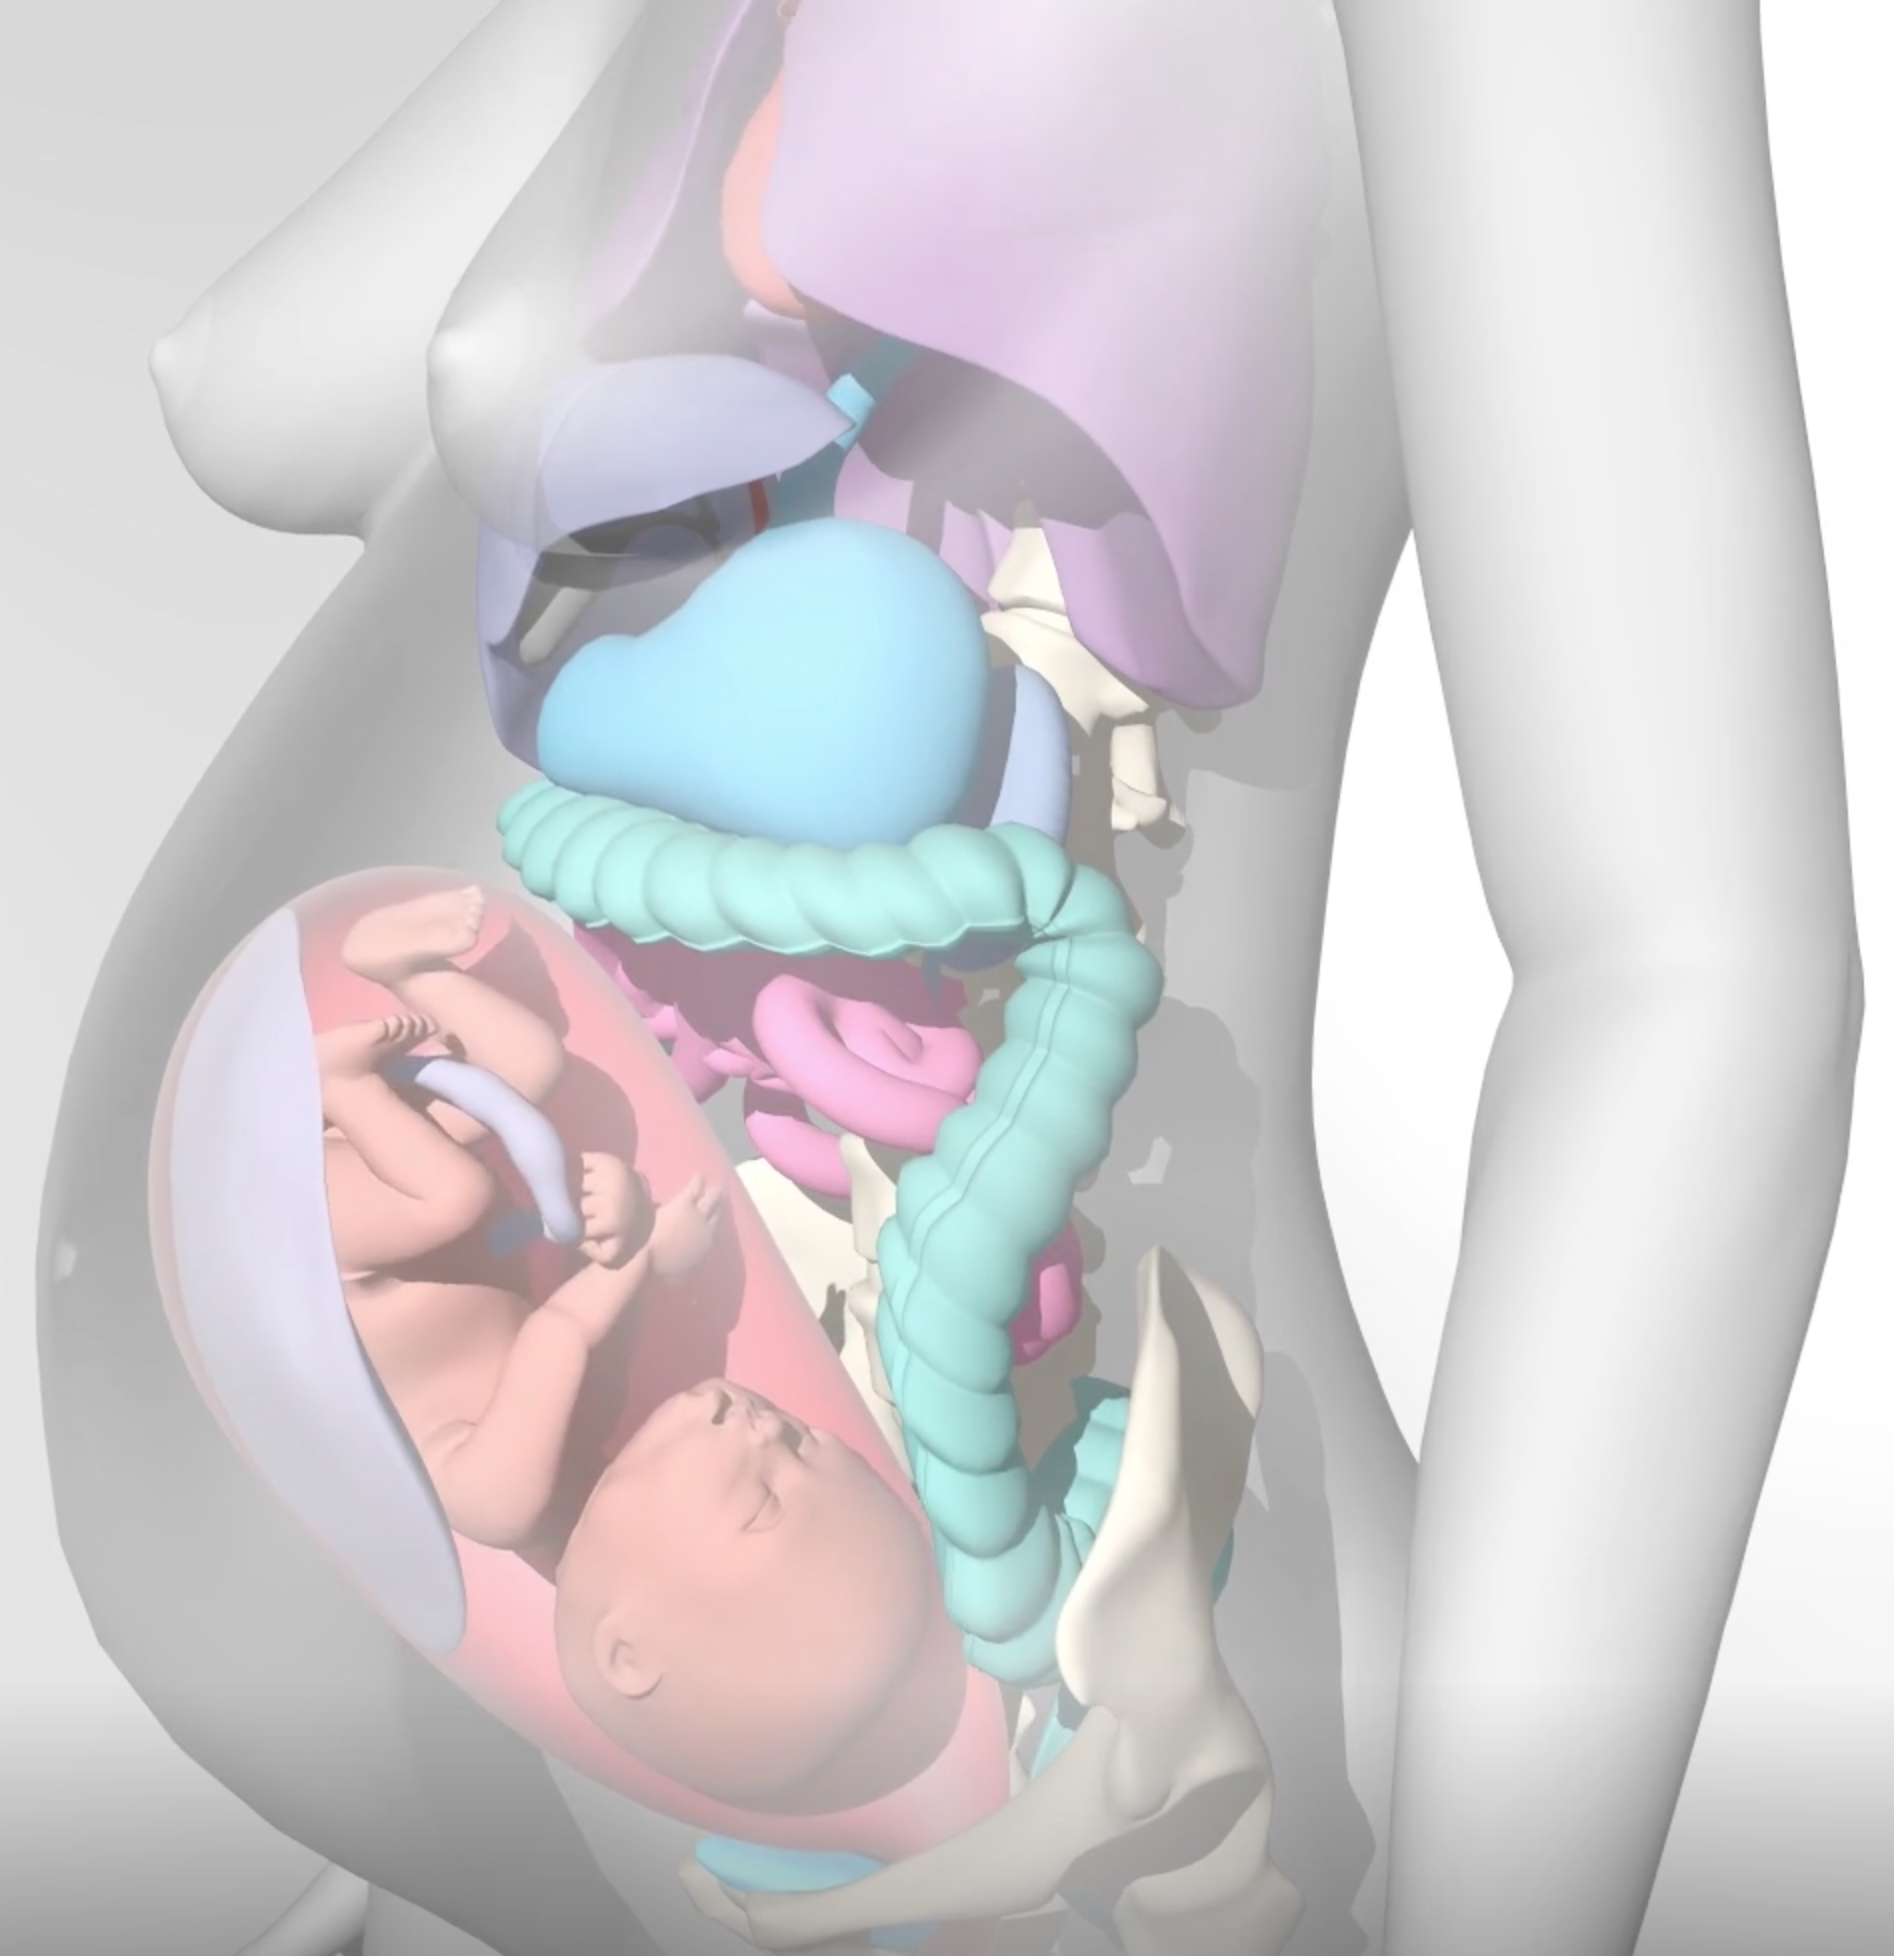
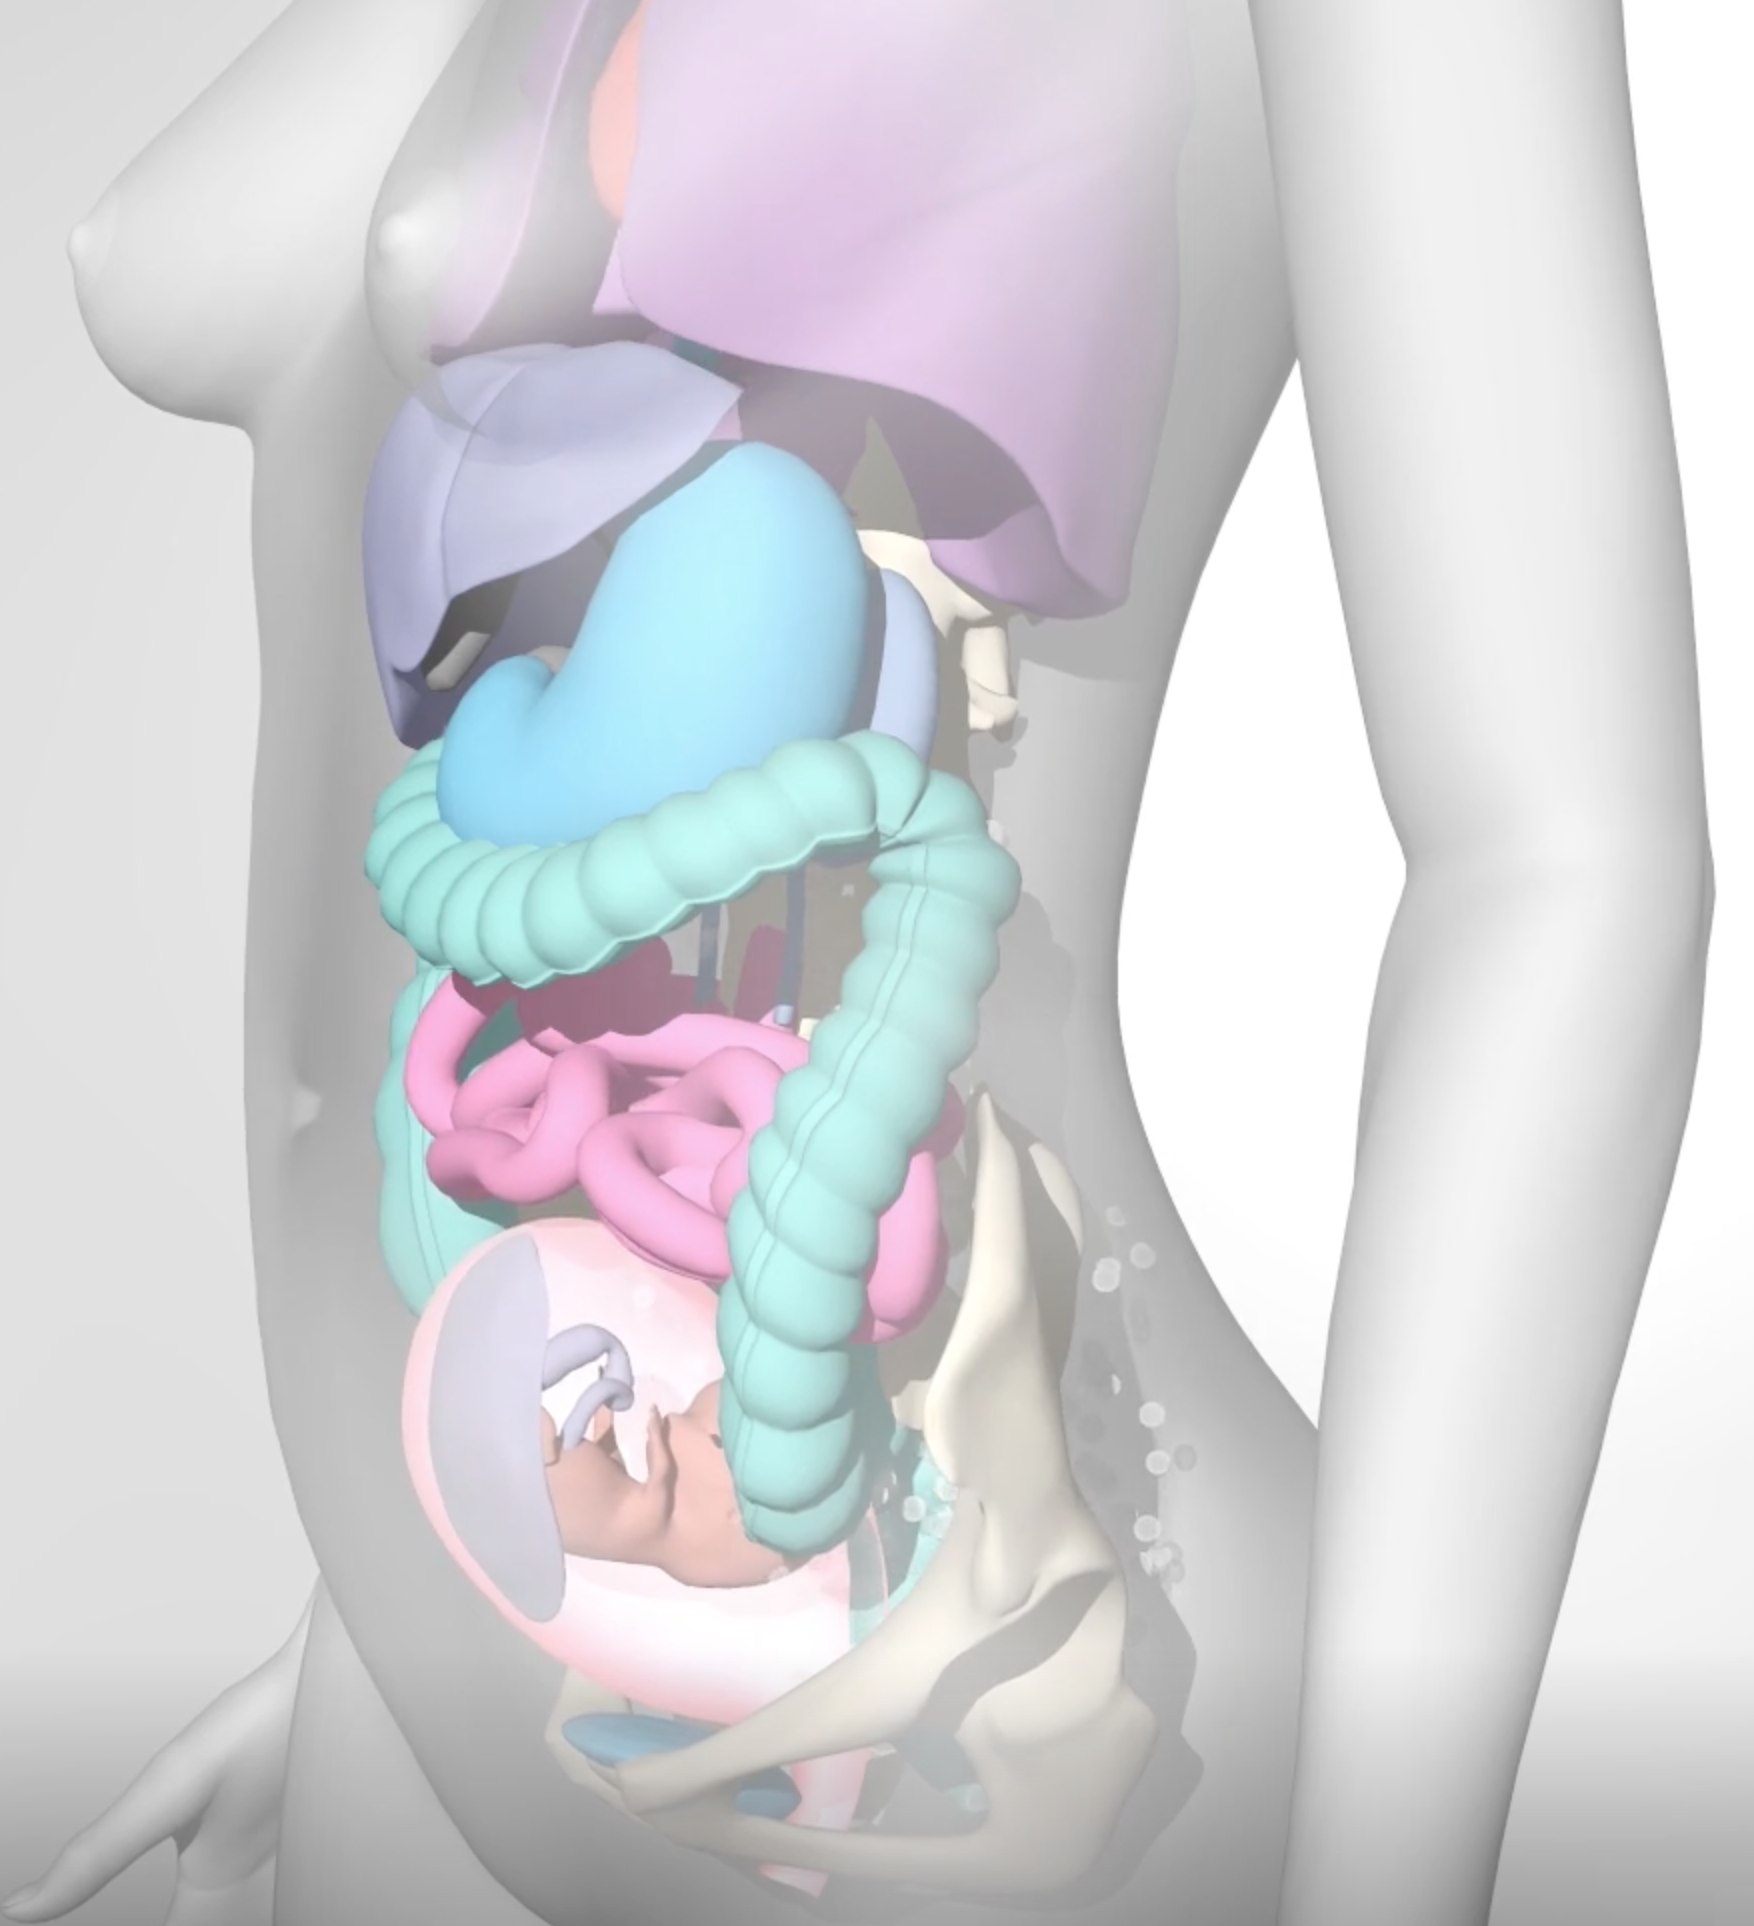
dynamic image loading in react

diff --git a/webui/src/components/mcrender_visialization.jsx b/webui/src/components/mcrender_visialization.jsx
@@ -2,9 +2,11 @@ import React, { useRef, useEffect, useState } from 'react'
 import * as Muicon from "@mui/icons-material";
 import '../App.css';
 import Tooltip from '@mui/material/Tooltip';
-import pregnancy_t1 from '../images/pregnancy_t1.png'
 import IconButton from '@mui/material/IconButton';
 import { Typography } from '@mui/material';
+const images = require.context('../images', true); 
+
+//const images = require.context('../images', true);  //import pregnancy_t1 from '../images/pregnancy_t1.png'
 //  future, look to do full 3D rendering using three.js
 //import * as THREE from 'three'; // causes warning of duplicate imports of three.js
 //import * as THREE from "https://unpkg.com/three@0.125.1/build/three.module.js";
@@ -19,35 +21,37 @@ function MCRenderContainer(props) {
     const [baseImg, setBaseImg] = useState(null);
     const [overlays, setOverlays] = useState([]);
     useEffect(() => {
-
+        setOverlays([])
         if (medicalNote) {
             if (medicalNote.derived_data && medicalNote.derived_data.base_image) {
-                if (medicalNote.derived_data.base_image === 'pregnancy_t1') {
-                    setBaseImg(pregnancy_t1);
+                var img = images(`./${medicalNote.derived_data.base_image}.png`)  //.default not needed
+                setBaseImg(img);
+                if (medicalNote.derived_data.base_image.startsWith('pregnancy')) {
                     calcOverlaysPregnancy();
-                }
+                } 
             }
             
         };
         // eslint-disable-next-line
-    }, [baseImg, medicalNote]); //, [renderer, setRenderer]
+    }, [medicalNote]); //, [renderer, setRenderer]
 
     // TODO make much more dynamic over time, move to backend to calc helpers and consumer friendly text
     const calcOverlaysPregnancy = () => {
         if (medicalNote && medicalNote.entity_extraction) {
             var overlaysArray = []
 
+            //common pregnancy issues
             for (var e of medicalNote.entity_extraction) {
                 if (e.Category === "MEDICAL_CONDITION" && e.Type === "DX_NAME") {
                     if (e.Text === "abdominal pain") {
-                        overlaysArray.push({ "icon": "Warning", bot: 95, left: 255, text: e.Text, color:'#f44336' })
+                        overlaysArray.push({ "icon": "Warning", bot: 115, left: 225, text: e.Text, color:'#f44336' })
                     }
                 }
                 if (e.Category === "MEDICAL_CONDITION" && e.Type === "DX_NAME") {
                     if (e.Text === "hemostatic") {
                         if (e.Attributes && e.Attributes[0]["Type"] === "SYSTEM_ORGAN_SITE") {
                             if (e.Attributes[0]["Text"] === "fallopian tube") {
-                                overlaysArray.push({ "icon": "Bloodtype", bot: 0, left: 205, text: "fallopian tube bleeding", color:'#f44336' })
+                                overlaysArray.push({ "icon": "Bloodtype", bot: 30, left: 205, text: "fallopian tube bleeding", color:'#f44336' })
                             }
                         }
                     }
@@ -57,8 +61,21 @@ function MCRenderContainer(props) {
                         overlaysArray.push({ "icon": "MonitorHeart", bot: 510, left: 160, text: e.Text + ": Hearrate > 100", color:'#f44336' })
                     }
                 }
-
+                // pregnancy vitals
+                if (e.Category === "TEST_TREATMENT_PROCEDURE" && e.Text === "heart rate" && e.Type==="TEST_NAME") {
+                    if (e.Attributes && e.Attributes[0]["Type"] === "TEST_VALUE") {
+                        overlaysArray.push({ "icon": "MonitorHeart", bot: 165, left: 125, text: e.Attributes[0]["Text"], color:'#f44336' })
+                    }
+                }
             }
+
+            //pregnancy measurements
+            if (medicalNote.derived_data["pregnancyMeasurements"]){
+                overlaysArray.push({ "icon": "Straighten", bot: 55, left: 175, text: "BPD (biparietal head diameter) " + medicalNote.derived_data["pregnancyMeasurements"]["BPD"] + " - " + "HC (head circumference) " + medicalNote.derived_data["pregnancyMeasurements"]["HC"] + "cm", color:'black' })
+                overlaysArray.push({ "icon": "Straighten", bot: 155, left: 80, text: "AC (abdominal circumference) " + medicalNote.derived_data["pregnancyMeasurements"]["AC"]+ "cm", color:'black' })
+                overlaysArray.push({ "icon": "Straighten", bot: 215, left: 75, text: "Femur Length (FL) " + medicalNote.derived_data["pregnancyMeasurements"]["FL"]+ "cm", color:'black' })
+            }
+
             setOverlays(overlaysArray);
         }
     }

diff --git a/webui/src/pages/demo1.jsx b/webui/src/pages/demo1.jsx
@@ -11,7 +11,7 @@ import Select from '@mui/material/Select';
 import Chip from '@mui/material/Chip';
 import Stack from '@mui/material/Stack';
 import Divider from '@mui/material/Divider';
-
+// /Straighten
 
 function Demo1() {
     const [medicalNoteId, setMedicalNoteId] = useState("fdf0813f-6d23-43d3-82fc-948bd9cc2bb4");
@@ -55,7 +55,7 @@ function Demo1() {
                 <Box sx={{ minWidth: 120 }}>
                     <br />
                     <FormControl >
-                        <InputLabel id="demo-simple-select-label">Select Medical Note</InputLabel>
+                        <InputLabel id="inputSelectMedicalNote">Select Medical Note</InputLabel>
                         <Select
                             labelId="demo-simple-select-label"
                             id="medicalNodeSelectionId"
@@ -64,7 +64,7 @@ function Demo1() {
                             onChange={handleMedicalNoteChange}
                         >
                             <MenuItem value='fdf0813f-6d23-43d3-82fc-948bd9cc2bb4'>OB/GYN, pregnancy ER issue</MenuItem>
-                            <MenuItem value="8daefb13-ea72-4985-aa99-25cb90bc0ba0">OB/GYN, menorrhagia</MenuItem>
+                            <MenuItem value="6bb29d28-c05f-46c1-8d90-ec7fe4d0145f">OB/GYN, pregnancy ultrasound scan</MenuItem>
                             <MenuItem value='07b50c9b-1c98-4738-bdef-adb5a0f9089d'>OB/GYN, Pelvic pain, ectopic pregnancy, and hemoperitoneum.</MenuItem>
                         </Select>
                     </FormControl>

diff --git a/python/app/batch/medical_notes_analysis/derive_medical_note_metadata.py b/python/app/batch/medical_notes_analysis/derive_medical_note_metadata.py
@@ -39,6 +39,7 @@ def derive_medical_note_metadata(mn):
         response = {}
         derive_base_image(mn, response)
         derive_key_phrases(mn, response)
+        derive_vitals_and_metrics(mn, response)
     except Exception as ex:
         logger.exception(
             "Error: Couldn't derive metadata for Medical note " + str(mn.id) + ", error=" + str(ex))
@@ -48,7 +49,7 @@ def derive_medical_note_metadata(mn):
 
 def derive_base_image(md, response):
     if md.medical_specialty.lower().strip() in ["obstetrics / gynecology", "ob/gyn", "obgyn"]:
-        if "pregnancy" in md.transcription.lower().strip() or "pregnancy" in md.keywords.lower().strip():
+        if "pregnancy" in md.transcription.lower().strip() or "pregnancy" in md.keywords.lower().strip() or "ultrasound of pelvis" in md.keywords.lower().strip():
             # ex: looking for 8 weeks gestational age
             num_weeks_pregnant = None
             regex_result = re.search(r".*(\d)+ weeks .*(gestational).*", md.transcription)
@@ -63,6 +64,7 @@ def derive_base_image(md, response):
 
             if num_weeks_pregnant is not None:
                 response["num_weeks_pregnant"] = num_weeks_pregnant
+                num_weeks_pregnant = re.sub("[^\d\.]", "", num_weeks_pregnant)
                 x = int(num_weeks_pregnant)
                 if x <= 7:
                     response["base_image"] = "pregnancy_early"
@@ -104,6 +106,23 @@ def derive_key_phrases(md, response):
 
     #response["anatomy_stats"] = pd.DataFrame(list(freq_dict_anatomy.items()), columns= ['word','count']).sort_values('count').to_json()
     #response["condition_stats"] = pd.DataFrame(list(freq_dict_conditions.items()), columns= ['word','count']).sort_values('count').to_json()
-    
+
+
+def derive_vitals_and_metrics(md, response):
+
+    if md.medical_specialty.lower().strip() in ["obstetrics / gynecology", "ob/gyn", "obgyn"]:
+        if "pregnancy" in md.transcription.lower().strip() or "pregnancy" in md.keywords.lower().strip() or "ultrasound of pelvis" in md.keywords.lower().strip():
+            pregnancyMeasurements = {}
+            # examples
+            # BPD: 3.5cm consistent with 16 weeks, 6 days gestation
+            # HC: 12.0cm consistent with 16 weeks, 4 days
+            for m in ["BPD", "HC", "AC", "FL"]:
+                print("searching " + str(m) + "...")
+                regex_result = re.search(r".*" + m +": (\d+.\d+)cm .*", md.transcription)
+                if regex_result:
+                    measurementCm = regex_result.group(1)
+                    pregnancyMeasurements[m] = measurementCm
+            response["pregnancyMeasurements"] = pregnancyMeasurements
+
 if __name__ == "__main__":
     derive_medical_notes_metadata()
